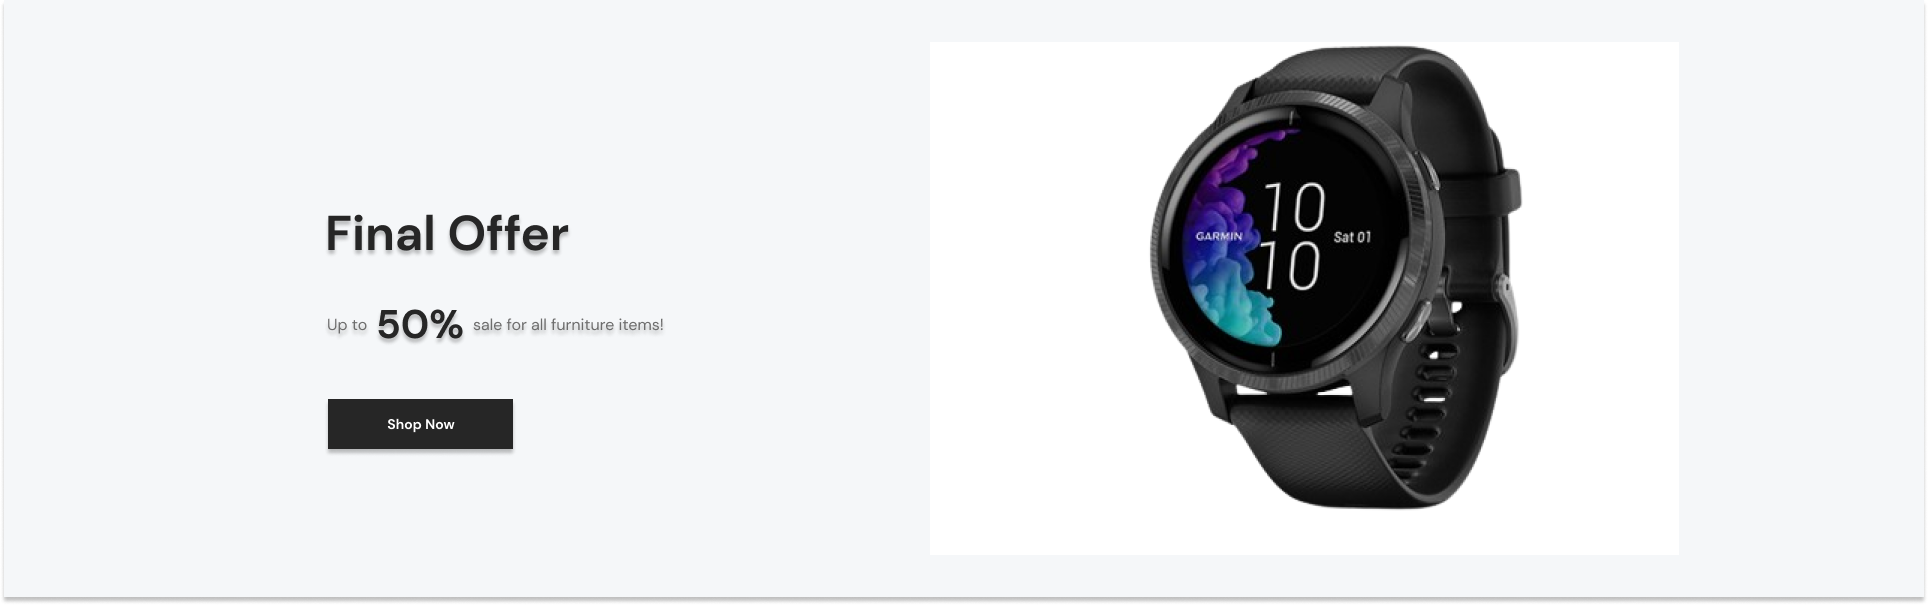
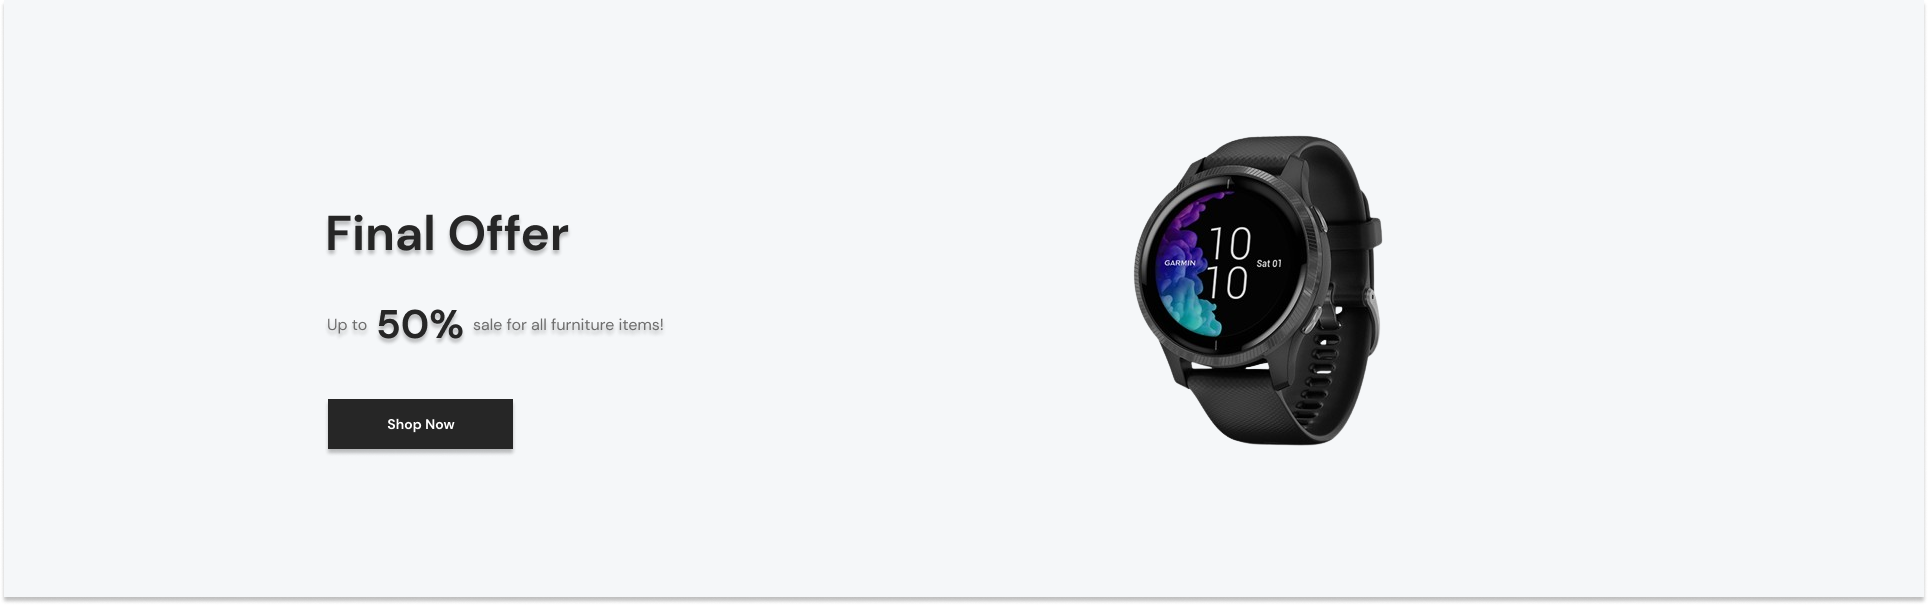
responsive slider added

Changed region(s): [[0.5913, 0.0595, 0.8091, 0.8628]]

diff --git a/src/component/page/Banner.jsx b/src/component/page/Banner.jsx
@@ -1,0 +1,104 @@
+import React, { useState } from "react";
+import Slider from "react-slick";
+// import "slick-carousel/slick/slick.css";
+
+import banner1 from "/slider1.png";
+import banner2 from "/slider2.png";
+import Image from "../layer/Image";
+
+const Banner = () => {
+  let [active, setActive] = useState(0);
+
+  const settings = {
+    arrows: false,
+    dots: true,
+    infinite: true,
+    speed: 500,
+    fade: true,
+    slidesToShow: 1,
+    slidesToScroll: 1,
+    fade: true,
+    autoplay: true,
+    autoplaySpeed: 2000,
+    cssEase: "linear",
+    appendDots: (dots) => (
+      <div
+        style={{
+          position: "absolute",
+          top: "50%",
+          left: "10%",
+          transform: "translateY(-50%)",
+          zIndex: "1000",
+          width: "auto",
+          height: "120px",
+        }}
+      >
+        <ul className=" flex flex-col justify-between h-[120px] "> {dots} </ul>
+      </div>
+    ),
+    customPaging: (i) => (
+      <div
+        className={`w-[30px] h-[30px] font-DM text-[10px]  border-r-2 flex items-center ${
+          active == i
+            ? " text-t-primary-active border-t-primary-active"
+            : " text-transparent border-white "
+        } `}
+      >
+        0{i + 1}
+      </div>
+    ),
+    beforeChange: (a, b) => {
+      setActive(b);
+    },
+    responsive: [
+      {
+        breakpoint: 680,
+        settings: {
+          appendDots: (dots) => (
+            <div
+              style={{
+                // backgroundColor: "#cccccc",
+                position: "absolute",
+                bottom: "5%",
+                left: "50%",
+                transform: "translateX(-50%)",
+                zIndex: "1000",
+                width: "auto",
+                height: "30px",
+              }}
+            >
+              <ul className=" flex  justify-between h-[120px] ">
+                {" "}
+                {dots}{" "}
+              </ul>
+            </div>
+          ),
+          customPaging: (i) => (
+            <div
+              className={`w-[18px] h-[20px] font-DM text-[10px]  border-b-2 flex justify-center${
+                active == i
+                  ? " text-t-primary-active border-t-primary-active"
+                  : " text-transparent border-white "
+              } `}
+            >
+              0{i + 1}
+            </div>
+          ),
+        },
+      },
+    ],
+  };
+
+  return (
+    <div>
+      <Slider {...settings}>
+        <Image imageClass="w-full" src={banner1} />
+        <Image imageClass="w-full" src={banner2} />
+        <Image imageClass="w-full" src={banner1} />
+        <Image imageClass="w-full" src={banner2} />
+      </Slider>
+    </div>
+  );
+};
+
+export default Banner;

diff --git a/src/component/Navbar.jsx b/src/component/Navbar.jsx
@@ -27,14 +27,14 @@ const Navbar = () => {
       <nav className="bg-gray-200 ">
         <Container className=" py-4 md:py-8 px-3 md:px-0  flex justify-end gap-x-3 md:gap-x-0 md:justify-center  bg-gray-200">
           <Image
-            className=" absolute top-1/2 -translate-y-1/2 left-3 md:left-0 "
+            className=" cursor-pointer absolute top-1/2 -translate-y-1/2 left-3 md:left-0 "
             href="/"
             src={logo}
             alt="/Logo.png"
           />
 
           
-            <ul className={`transition-all duration-500 md:static gap-x-10  flex absolute left-0 top-full md:flex-row flex-col md:justify-center md:bg-transparent w-full px-3 md:px-0 z-20 bg-inherit ${show?" translate-y-0 ":" top-0  -translate-y-full"} `}>
+            <ul className={`transition-all duration-500 md:static gap-x-10  flex absolute left-0 top-full md:flex-row flex-col md:justify-center md:bg-transparent w-full px-3 md:px-0 z-20 bg-inherit ${show?" translate-y-0 ":" top-[0px]  -translate-y-full"} `}>
               <Li className="text-t-primary-active" liText="Home" href="/" />
               <Li liText="Shop" href="/Shop" />
               <Li liText="About" href="/About" />

diff --git a/src/component/SaleOffer.jsx b/src/component/SaleOffer.jsx
@@ -1,0 +1,26 @@
+import React from 'react'
+import Container from '../component/layer/Container'
+import ad1 from '/Ad_1.png'
+import ad2 from '/Ad_2.png'
+import ad3 from '/Ad_3.png'
+import Image from './layer/Image'
+
+const SaleOffer = () => {
+  return (
+    <Container className='pt-[10.875rem] '>
+        <div className="main flex justify-between">
+            <div className="left w-[48.75rem] h-[48.75rem] ">
+                <Image src={ad1} />
+            </div>
+            <div className="right flex flex-col justify-between">
+                <div className="up w-[48.75rem] h-[23.125rem] ">
+                <Image src={ad2} /></div>
+                <div className="down w-[48.75rem] h-[23.125rem] ">
+                <Image src={ad3} /></div>
+            </div>
+        </div>
+    </Container>
+  )
+}
+
+export default SaleOffer

diff --git a/src/component/SearchBar.jsx b/src/component/SearchBar.jsx
@@ -15,7 +15,7 @@ const SearchBar = () => {
 
   return (
     <div className="bg-[#F5F5F3] relative ">
-      <Container className="py-6  flex md:justify-between gap-x-3 px-3 md:px-0 items-center relative">
+      <Container className="py-3 md:py-6  flex md:justify-between gap-x-3 px-3 md:px-0  items-center relative">
         <div
           onClick={() => setShow(!show)}
           className="category  flex md:gap-x-2.5 cursor-pointer"
@@ -395,7 +395,7 @@ const SearchBar = () => {
               <div className="up ">
                 <CustomBtn
                   btnText="My Account"
-                  className="text-white bg-gray-400 w-[200px] py-4"
+                  className="text-white bg-[#6B7280] w-[200px] py-4"
                 />
               </div>
               <div className="down ">

diff --git a/src/component/layer/Image.jsx b/src/component/layer/Image.jsx
@@ -1,11 +1,11 @@
 import React from 'react';
 import { Link } from 'react-router-dom';
 
-const Image = ({href , src , alt , className}) => {
+const Image = ({href , src , alt , className , imageClass}) => {
   return (
-    <Link to={href}>
+    <Link to={href} className={` ${className} `}>
       <picture >
-        <img src={src} alt={alt}  className={` block ${className}`}/>
+        <img src={src} alt={alt}  className={` block ${imageClass}`}/>
       </picture>
     </Link>
   );

diff --git a/src/component/page/Home.jsx b/src/component/page/Home.jsx
@@ -1,10 +1,15 @@
 import React from 'react'
-import Banner from '../Banner'
+import Banner from './Banner'
+import Image from '../layer/Image'
+import policy1 from '/introDown.png'
+import SaleOffer from '../SaleOffer'
 
 const Home = () => {
   return (
     <>
       <Banner/>
+      <Image src={policy1} imageClass='mx-auto' />
+      {/* <SaleOffer/> */}
     </>
   )
 }

diff --git a/src/component/page/Shop.jsx b/src/component/page/Shop.jsx
@@ -1,11 +1,9 @@
 import React from 'react'
-import Banner from '../Banner'
 
 const Shop = () => {
   return (
     <>
       <h1 className='bg-black text-white'>Shop</h1>
-      <Banner/>
     </>
   )
 }
